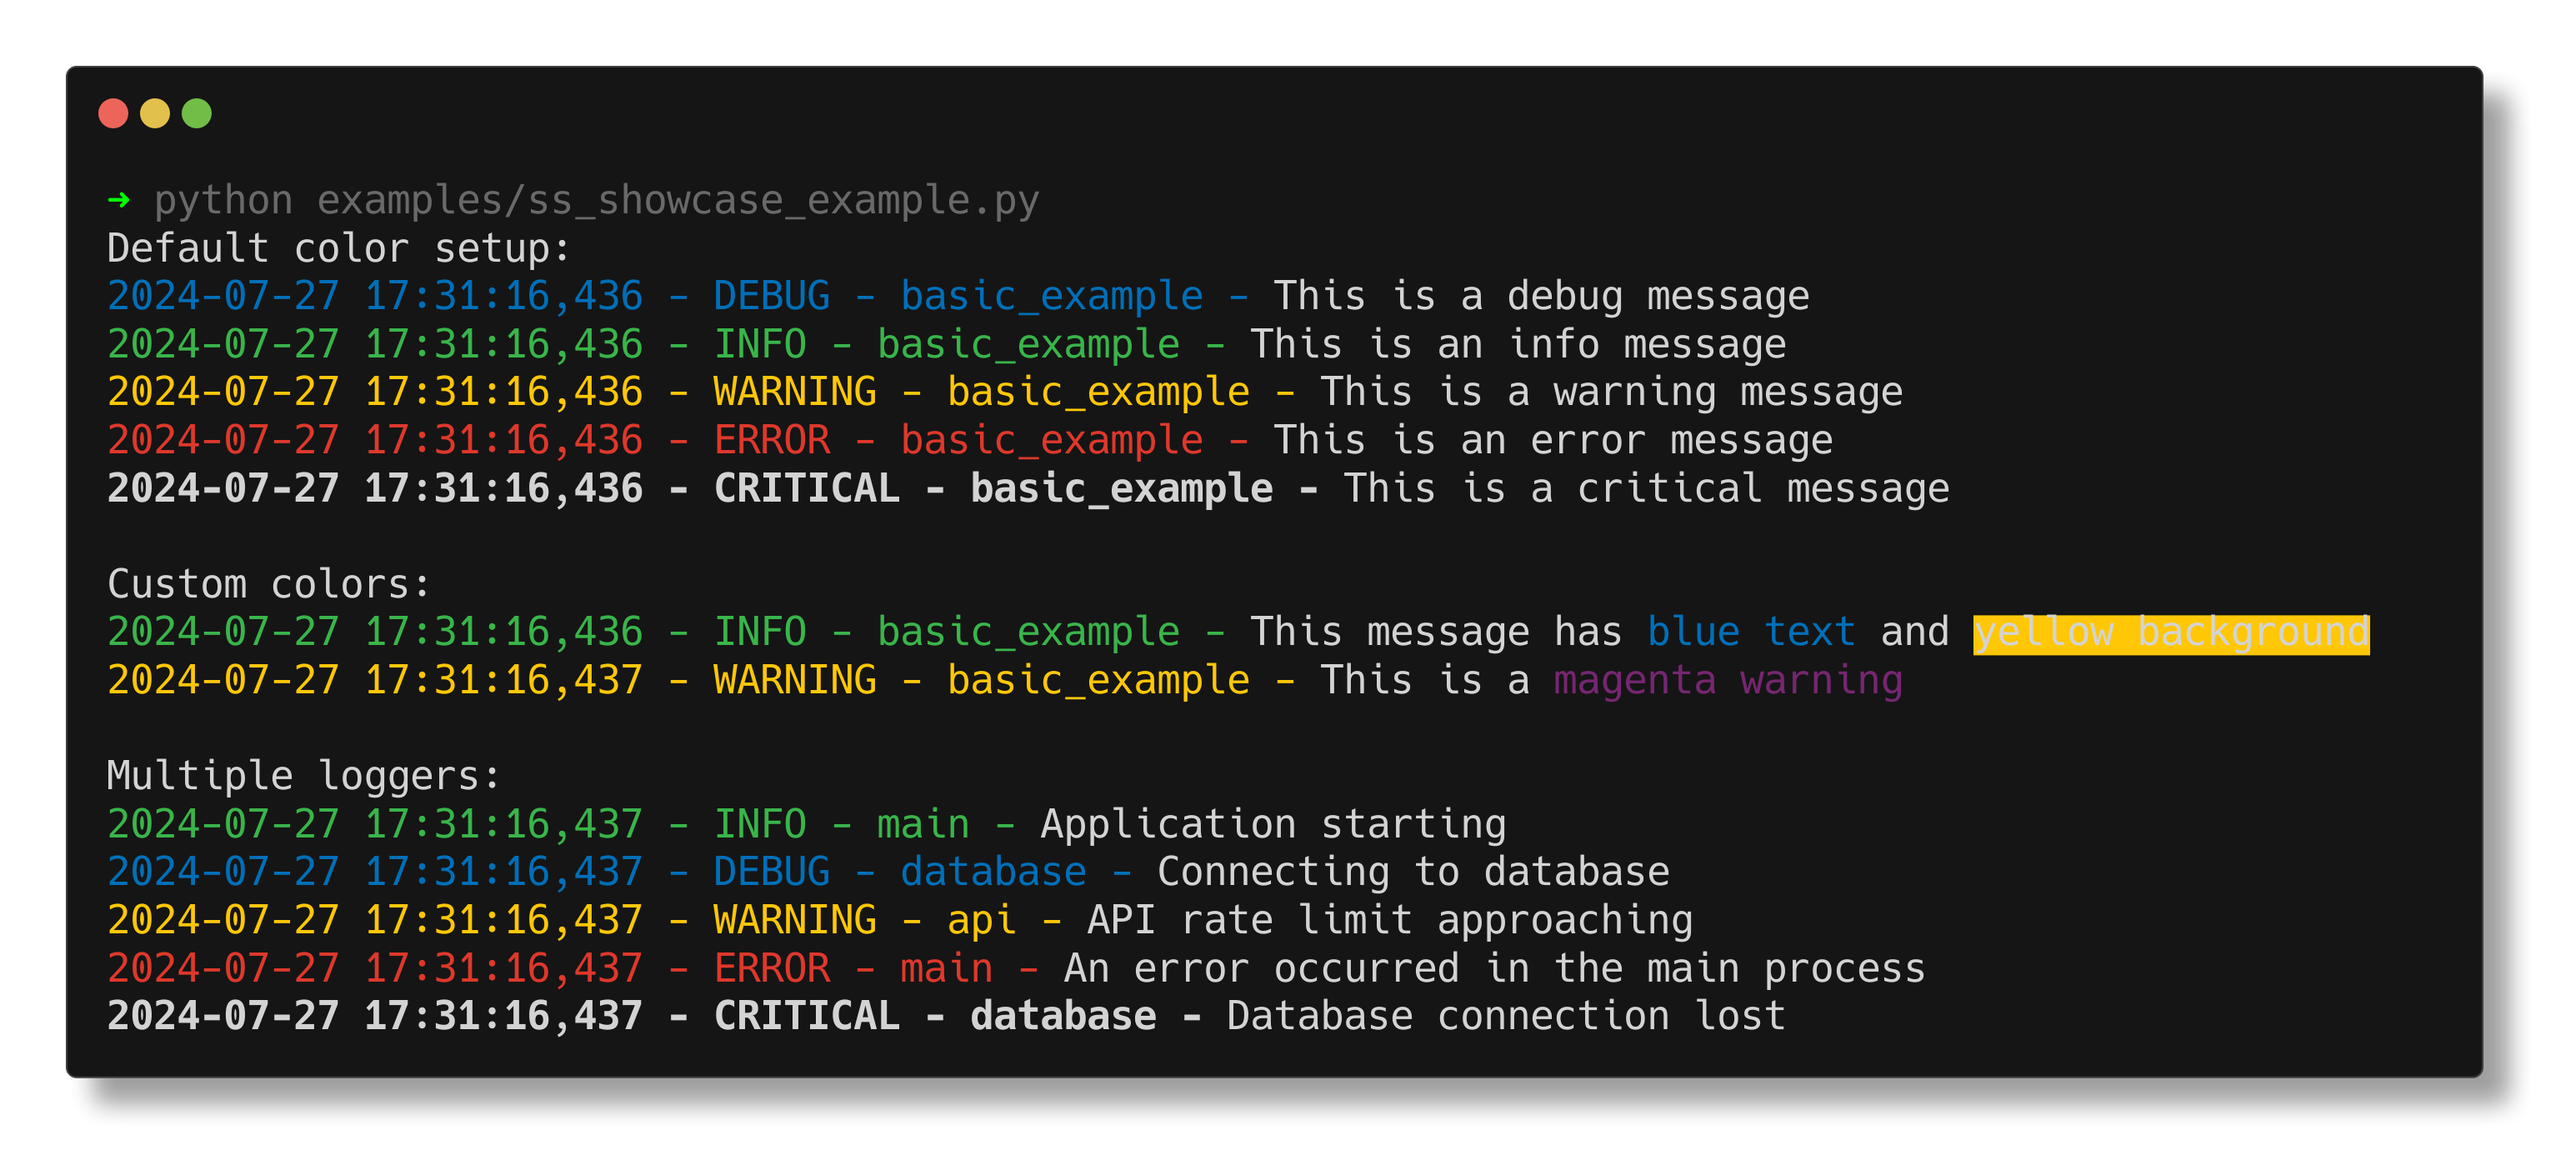
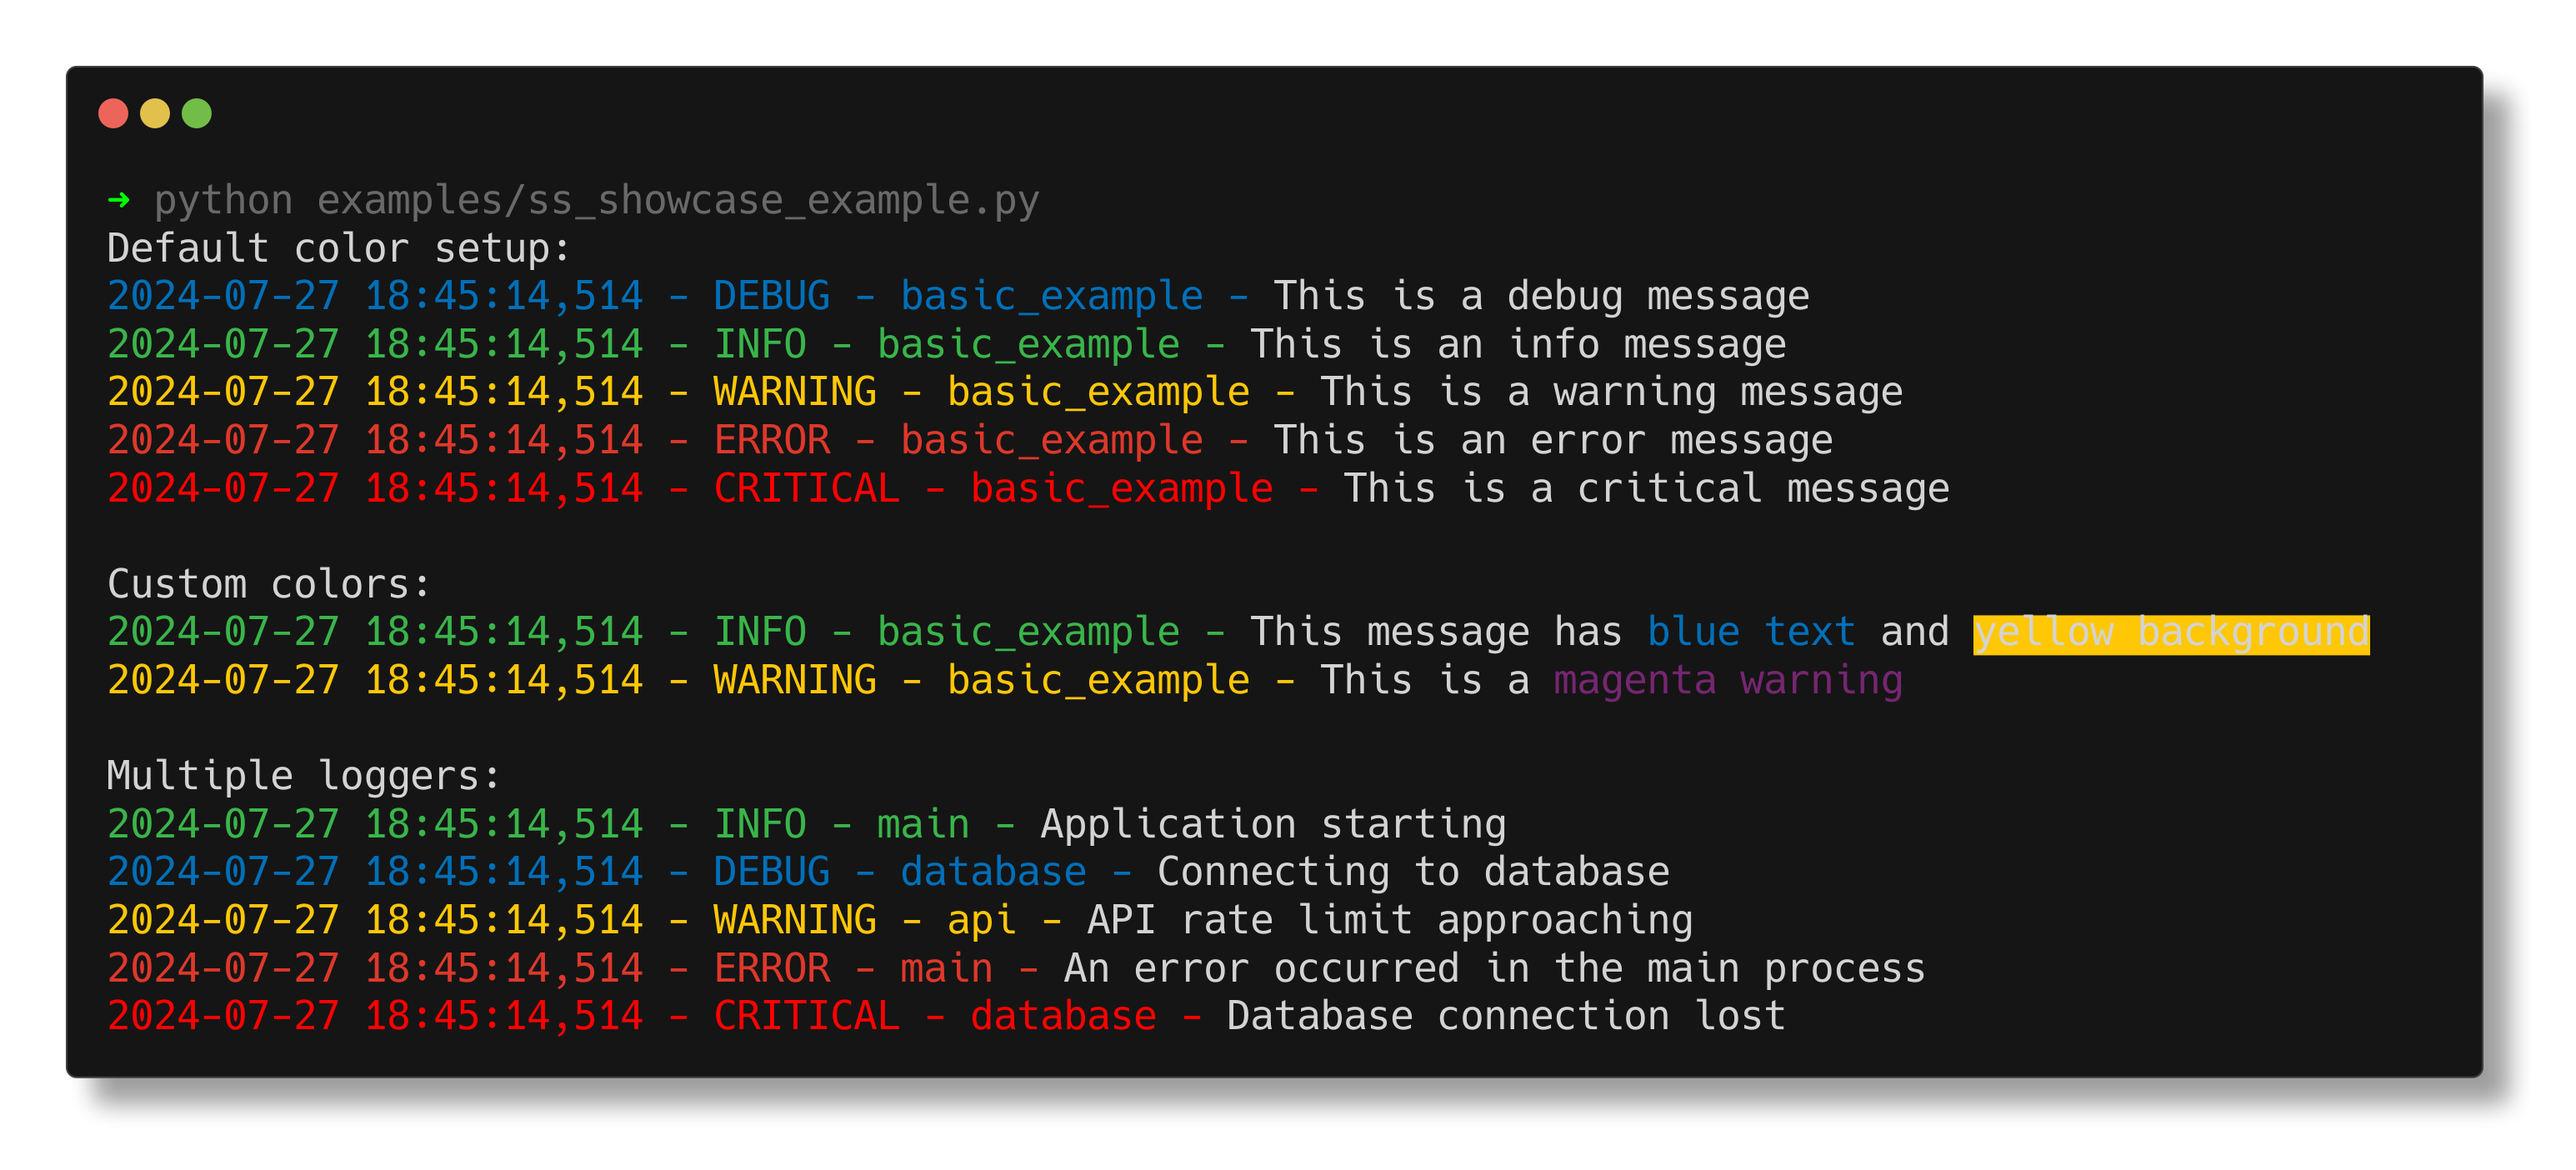
chore: Bump version to 1.5.3 in pyproject.toml and setup.py

diff --git a/src/colored_custom_logger/logger.py b/src/colored_custom_logger/logger.py
@@ -4,7 +4,7 @@ logger.py - A module for setting up consistent, partially colorful logging acros
 This module provides a CustomLogger class that can be used directly for logging with colorful date
 and log level, while leaving the rest of the output in plain text.
 
-Version: 1.5.2
+Version: 1.5.3
 """
 
 import logging
@@ -37,7 +37,7 @@ class ColoredFormatter(logging.Formatter):
         "INFO": Fore.GREEN,
         "WARNING": Fore.YELLOW,
         "ERROR": Fore.RED,
-        "CRITICAL": Fore.RED + Style.BRIGHT,
+        "CRITICAL": Fore.LIGHTRED_EX,
     }
 
     def __init__(self, fmt=None, datefmt=None, style="%"):

diff --git a/examples/context_managers.py b/examples/context_managers.py
@@ -1,0 +1,24 @@
+import logging
+from contextlib import contextmanager
+
+from colored_custom_logger import CustomLogger
+
+logger = CustomLogger.get_logger(__name__, level=logging.INFO)
+
+
+@contextmanager
+def temporary_loglevel(temp_level):
+    original_level = logger.level
+    logger.setLevel(temp_level)
+    try:
+        yield
+    finally:
+        logger.setLevel(original_level)
+
+
+logger.debug("This debug message won't appear")
+
+with temporary_loglevel(logging.DEBUG):
+    logger.debug("This debug message will appear")
+
+logger.debug("This debug message won't appear again")

diff --git a/examples/integration_with_existing_projects.py b/examples/integration_with_existing_projects.py
@@ -1,0 +1,18 @@
+import logging
+
+from colored_custom_logger import ColoredFormatter, CustomLogger
+
+logging.basicConfig(level=logging.INFO)
+
+colored_formatter = ColoredFormatter()
+
+root_logger = logging.getLogger()
+console_handler = logging.StreamHandler()
+console_handler.setFormatter(colored_formatter)
+root_logger.addHandler(console_handler)
+
+logger = logging.getLogger(__name__)
+logger.info("This message will be colored")
+
+custom_logger = CustomLogger.get_logger("custom_module")
+custom_logger.warning("This warning uses CustomLogger directly")

diff --git a/examples/logging_to_files.py b/examples/logging_to_files.py
@@ -1,0 +1,18 @@
+import logging
+
+from colored_custom_logger import CustomLogger
+
+logger = CustomLogger.get_logger(__name__)
+
+file_handler = logging.FileHandler("app.log")
+file_handler.setLevel(logging.DEBUG)
+
+file_formatter = logging.Formatter(
+    "%(asctime)s - %(name)s - %(levelname)s - %(message)s"
+)
+file_handler.setFormatter(file_formatter)
+
+logger.addHandler(file_handler)
+
+logger.debug("This message will go to both console and file")
+logger.info("So will this info message")

diff --git a/examples/advanced_formatting.py b/examples/advanced_formatting.py
@@ -1,0 +1,14 @@
+from colored_custom_logger import ColoredFormatter, CustomLogger
+
+logger = CustomLogger.get_logger(__name__)
+
+custom_formatter = ColoredFormatter(
+    fmt="%(asctime)s | %(levelname)8s | %(name)s | %(message)s",
+    datefmt="%Y-%m-%d %H:%M:%S",
+)
+
+console_handler = logger.handlers[0]
+console_handler.setFormatter(custom_formatter)
+
+logger.info("This message uses the custom format")
+logger.warning("So does this warning message")

diff --git a/examples/ss_quickstart.py b/examples/ss_quickstart.py
@@ -1,0 +1,11 @@
+from colored_custom_logger import CustomLogger
+
+# Create your fabulous logger
+logger = CustomLogger.get_logger(__name__)
+
+# Let the colorful logging begin!
+logger.debug("🔍 This is a debug message")
+logger.info("ℹ Here's some info for you")
+logger.warning("⚠ Uh-oh, this is a warning")
+logger.error("❌ Oops! We've got an error")
+logger.critical("🚨 MAYDAY! MAYDAY! This is critical!")

diff --git a/examples/customizing_log_levels.py b/examples/customizing_log_levels.py
@@ -1,0 +1,12 @@
+import logging
+
+from colored_custom_logger import CustomLogger
+
+logger = CustomLogger.get_logger(__name__, level=logging.INFO)
+
+logger.debug("This debug message won't be displayed")
+logger.info("This info message will be displayed")
+logger.warning("This warning message will be displayed")
+
+logger.setLevel(logging.DEBUG)
+logger.debug("Now this debug message will be displayed")

diff --git a/examples/using_custom_colors.py b/examples/using_custom_colors.py
@@ -1,0 +1,8 @@
+from colorama import Back, Fore, Style
+from colored_custom_logger import CustomLogger
+
+logger = CustomLogger.get_logger(__name__)
+
+logger.info(f"This message has {Fore.BLUE}blue text{Style.RESET_ALL}")
+logger.warning(f"This is a {Fore.MAGENTA}magenta warning{Style.RESET_ALL}")
+logger.error(f"Error! {Back.WHITE}{Fore.RED}Something went wrong!{Style.RESET_ALL}")

diff --git a/examples/multiple_loggers.py b/examples/multiple_loggers.py
@@ -1,0 +1,9 @@
+from colored_custom_logger import CustomLogger
+
+main_logger = CustomLogger.get_logger("main")
+db_logger = CustomLogger.get_logger("database")
+api_logger = CustomLogger.get_logger("api")
+
+main_logger.info("Application starting")
+db_logger.debug("Connecting to database")
+api_logger.warning("API rate limit approaching")

diff --git a/setup.py b/setup.py
@@ -2,7 +2,7 @@ from setuptools import find_packages, setup
 
 setup(
     name="colored_custom_logger",
-    version="1.5.2",
+    version="1.5.3",
     packages=find_packages(where="src"),
     package_dir={"": "src"},
     project_urls={

diff --git a/README.md b/README.md
@@ -20,8 +20,6 @@ Feast your eyes on these beautiful logs:
 
 ![Colored Logger Demo](docs/images/showcase_example.png)
 
-*Note: Replace this with an actual screenshot of your logger in action*
-
 ## 🚀 Installation
 
 Get started with a simple pip install:
@@ -50,7 +48,7 @@ logger.critical("🚨 MAYDAY! MAYDAY! This is critical!")
 
 And voilà! Your console will transform into this:
 
-![Logger Output](docs/images/basic_usage.png)
+![Logger Output](docs/images/quickstart.png)
 
 ## Documentation
 
@@ -85,8 +83,6 @@ Our carefully curated color palette ensures your logs are both beautiful and rea
 Want to customize your logger further? No problem! Check out our advanced usage guide:
 
 ![Advanced Usage](docs/images/advanced_usage.png)
-
-*Note: Replace this with an image showcasing advanced usage examples*
 
 ## 🤝 Contributing
 
